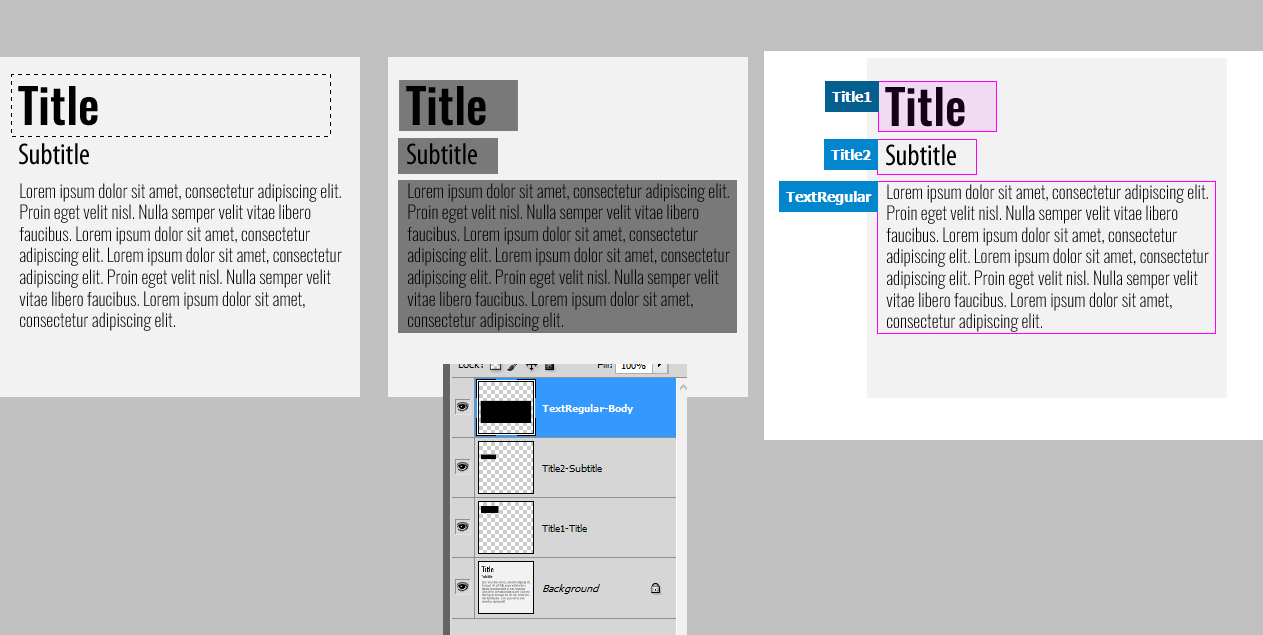
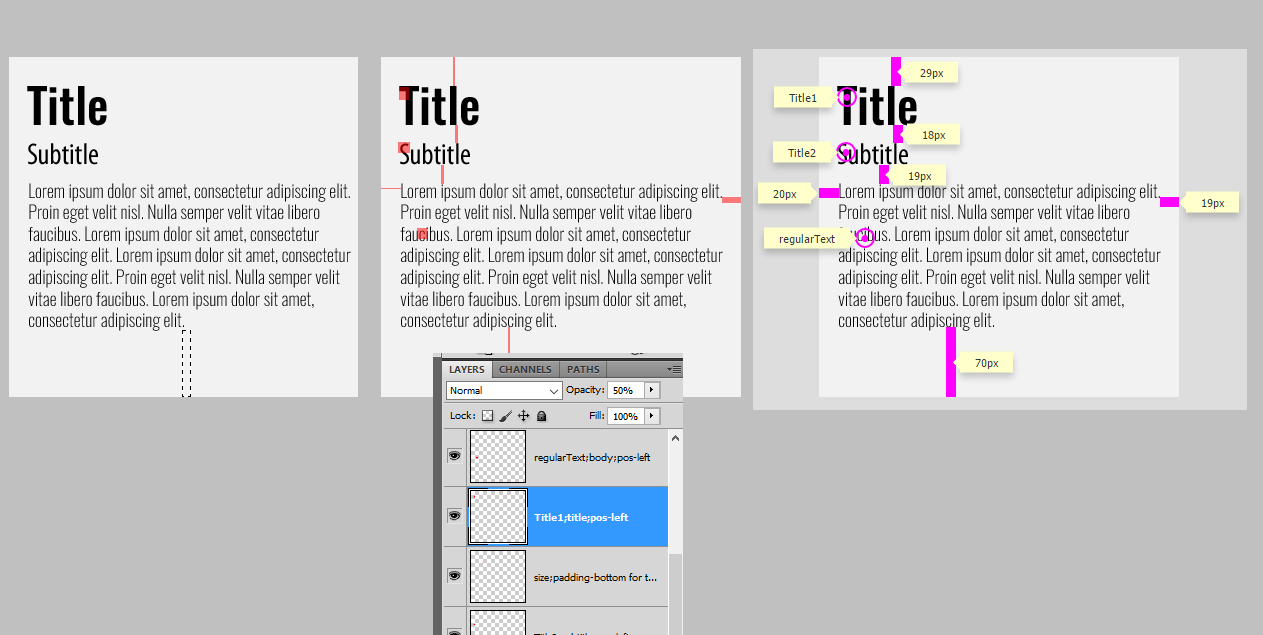
general improvement

Changed region(s): [[0.0, 0.0598, 1.0, 1.0]]

diff --git a/news-card.html b/news-card.html
@@ -1,5 +1,11 @@
-<!DOCTYPE html> <html lang="en"> <head> <meta charset="UTF-8"> <title>Reebok mobile | Font update</title> <link rel="stylesheet" href="css/styles.css"> </head> <body> <div class="container" style="width: 360px;"> <h1>news-card</h1> <div class="prototype"> <img src="images/news-card.png" alt="image"> <ul class="list">
-<li style="width: 339px; height: 153px; top: 123px; left: 10px;" class="pos-left" title="TextRegular">Body</li>
-<li style="width: 100px; height: 36px; top: 81px; left: 10px;" class="pos-left" title="Title2">Subtitle</li>
-<li style="width: 119px; height: 51px; top: 23px; left: 11px;" class="pos-left" title="Title1">Title</li>
+<!DOCTYPE html> <html lang="en"> <head> <meta charset="UTF-8"> <title>Reebok mobile | Font update</title> <script type="text/javascript" src="https://code.jquery.com/jquery-2.2.3.min.js"></script> <script type="text/javascript" src="js/script.js"></script>  <link rel="stylesheet" href="css/styles.css"> </head> <body> <div class="container" style="width: 360px;"> <h1>news-card</h1> <ul class="actions"> <li id="showAll"><span>Show all</span></li> <li id="hideAll" class="active"><span>Hide all</span></li> </ul> <div class="prototype"> <img src="images/news-card.png" alt="image"> <ul class="list">
+<li style="width: 19px; height: 10px; top: 140px; left: 341px;" class="size pos-right">padding-left<span>19px</span></li>
+<li style="width: 10px; height: 70px; top: 270px; left: 127px;" class="size pos-right">padding-bottom<span>70px</span></li>
+<li style="width: 10px; height: 29px; top: 0px; left: 72px;" class="size pos-right">padding-top<span>29px</span></li>
+<li style="width: 20px; height: 20px; top: 171px; left: 36px;" class="pos-left">body<span>regularText</span></li>
+<li style="width: 20px; height: 20px; top: 30px; left: 18px;" class="pos-left">title<span>Title1</span></li>
+<li style="width: 10px; height: 18px; top: 68px; left: 74px;" class="size pos-right">padding-bottom for title<span>18px</span></li>
+<li style="width: 20px; height: 20px; top: 85px; left: 17px;" class="pos-left">subtitle<span>Title2</span></li>
+<li style="width: 10px; height: 19px; top: 108px; left: 60px;" class="size pos-right">padding-bottom for subtitle<span>19px</span></li>
+<li style="width: 20px; height: 10px; top: 131px; left: 0px;" class="size pos-left">left padding<span>20px</span></li>
 </ul></div> </div> </body> </html>

diff --git a/css/styles.css b/css/styles.css
@@ -1,6 +1,7 @@
 html,
 body {
     height: 100%;
+    background: #ddd;
 }
 
 *,
@@ -37,36 +38,105 @@ body {
 }
 
 .list li {
+    cursor: pointer;
     position: absolute;
     font-size: 0;
     background: rgba(255,0,255,0);
-    border: 1px solid  rgba(255,0,255,1);
+    border: 2px solid  rgba(255,0,255,1);
+    border-radius: 9999px;
 }
 
-.list li:hover {
-    background: rgba(255,0,255,0.1);
-}
-
-.list li:hover:after {
-    background: #025f8e;
+.list li.size {
+    border: 0;
+    background: rgba(255,0,255,1);
+    border-radius: 0;
 }
 
 .list li:after {
-    content: attr(title);
+    content: '';
     position: absolute;
-    background: #0286cd;
-    color: #fff;
-    padding: 7px;
-    top: -1px;
-    font-size: 14px;
-    font-weight: bold;
+    left: 50%;
+    top: 50%;
+    width: 40%;
+    height: 40%;
+    border-radius: 9999px;
+    background: rgba(255,0,255,1);
+    transform: translate(-50%, -50%);
+}
+
+.list li.size:after {
+    display: none;
+}
+
+.list li span {
+    display: none;
+    position: absolute;
+    background: #ffffcc;
+    color: #333;
+    box-shadow: 0 5px 10px rgba(0,0,0,.2);
+    padding: 4px 15px;
+    top: 50%;
+    transform: translateY(-50%);
+    font-size: 11px;
     white-space: nowrap;
 }
 
-.list li.pos-left:after {
-    right: 100%;
+.list li.active span {
+    display: block;
 }
 
-.list li.pos-right:after {
-    left: 100%;
+.list li span:after {
+    content: '';
+    position: absolute;
+    width: 10px;
+    height: 10px;
+    background: #ffffcc;
+    top: 50%;
+    margin: -5px 0 0;
+    transform: rotate(-45deg);
+}
+
+.list li.pos-left span {
+    margin-left: -25px;
+    right: 140%;
+}
+
+.list li.pos-left span:after {
+    right: -5px;
+}
+
+.list li.pos-right span {
+    left: 140%;
+}
+
+.list li.pos-right span:after {
+    left: -5px;
+}
+
+.actions {
+    list-style: none;
+    padding: 0 0 20px;
+    margin: 0;
+}
+
+.actions li {
+    display: inline-block;
+    vertical-align: top;
+    padding: 4px 10px;
+    cursor: pointer;
+    color: #0033ff;
+}
+
+.actions li span {
+    border-bottom: 1px dotted #0033ff;
+}
+
+.actions li.active {
+    color: #333;
+    background: #ffffcc;
+    cursor: default;
+}
+
+.actions li.active span {
+    border-bottom: 1px solid rgba(0,0,0,0);
 }

diff --git a/widthXheightSave.jsx b/widthXheightSave.jsx
@@ -5,6 +5,7 @@ var fileName = srcDoc.name;
 var docName = fileName.substring(0,fileName.length -4);
 var results = "";
 var html = "";
+var size = "";
 
 for (var i = 0; i < numOfLayers-1  ; i++)
 {
@@ -16,7 +17,7 @@ for (var i = 0; i < numOfLayers-1  ; i++)
 var lastLayer = srcDoc.layers[numOfLayers-1];
 var imageWidth = parseFloat(lastLayer.bounds[2]) - parseFloat(lastLayer.bounds[0]);
 
-var header ='<!DOCTYPE html> <html lang="en"> <head> <meta charset="UTF-8"> <title>Reebok mobile | Font update</title> <link rel="stylesheet" href="css/styles.css"> </head> <body> <div class="container" style="width: '+imageWidth+'px;"> <h1>'+docName+'</h1> <div class="prototype"> <img src="images/'+docName+'.png" alt="image"> <ul class="list">\n'
+var header ='<!DOCTYPE html> <html lang="en"> <head> <meta charset="UTF-8"> <title>Reebok mobile | Font update</title> <script type="text/javascript" src="https://code.jquery.com/jquery-2.2.3.min.js"></script> <script type="text/javascript" src="js/script.js"></script>  <link rel="stylesheet" href="css/styles.css"> </head> <body> <div class="container" style="width: '+imageWidth+'px;"> <h1>'+docName+'</h1> <ul class="actions"> <li id="showAll"><span>Show all</span></li> <li id="hideAll" class="active"><span>Hide all</span></li> </ul> <div class="prototype"> <img src="images/'+docName+'.png" alt="image"> <ul class="list">\n'
 var footer ='</ul></div> </div> </body> </html>'
 html = header + results + footer;
 
@@ -36,7 +37,19 @@ function getLayerBounds(alayer)
 	var h = y2 - y1;
 	var layerName = alayer.name;
 	
-	layerName = layerName.split("-");
-	return '<li style="width: ' + w + 'px; height: ' + h + 'px; top: '+ y1 +'px; left: '+ x1 +'px;" class="pos-left" title="'+layerName[0]+'">'+layerName[1]+'</li>';
+	layerName = layerName.split(";");
+	if(layerName[0] == 'size'){
+		if(w>h){
+			size = w;
+			h = 10;
+		} else {
+			size = h;
+			w = 10;
+		}
+		return '<li style="width: ' +  w + 'px; height: ' + h + 'px; top: '+ y1 +'px; left: '+ x1 +'px;" class="size '+layerName[2]+'">'+layerName[1]+'<span>'+size+'px</span></li>';
+	} else {
+		return '<li style="width: ' + 20 + 'px; height: ' + 20 + 'px; top: '+ y1 +'px; left: '+ x1 +'px;" class="'+layerName[2]+'">'+layerName[1]+'<span>'+layerName[0]+'</span></li>';
+	};
+	
 }
 

diff --git a/js/script.js b/js/script.js
@@ -1,0 +1,25 @@
+$( document ).ready(function() {
+
+    var hotspot = $('.list li');
+    var actionItem = $('.actions li');
+    var clicked = function(item){
+        item.on('click', function(e){
+            item.removeClass('active');
+            $(this).addClass('active');
+            e.preventDefault();
+        });
+    };
+
+    clicked(hotspot);
+    clicked(actionItem);
+
+    $('#showAll').on('click', function(e){
+        hotspot.addClass('active');
+        e.preventDefault();
+    });
+    $('#hideAll').on('click', function(e){
+        hotspot.removeClass('active');
+        e.preventDefault();
+    });
+
+});

diff --git a/widthXheight.jsx b/widthXheight.jsx
@@ -4,5 +4,6 @@ var l = doc.artLayers.add();
 doc.selection.fill(app.foregroundColor); 
 doc.selection.deselect();
 doc.activeLayer.opacity = 50;
+app.doAction("LayerProperty", "specOnImage");
 
 
